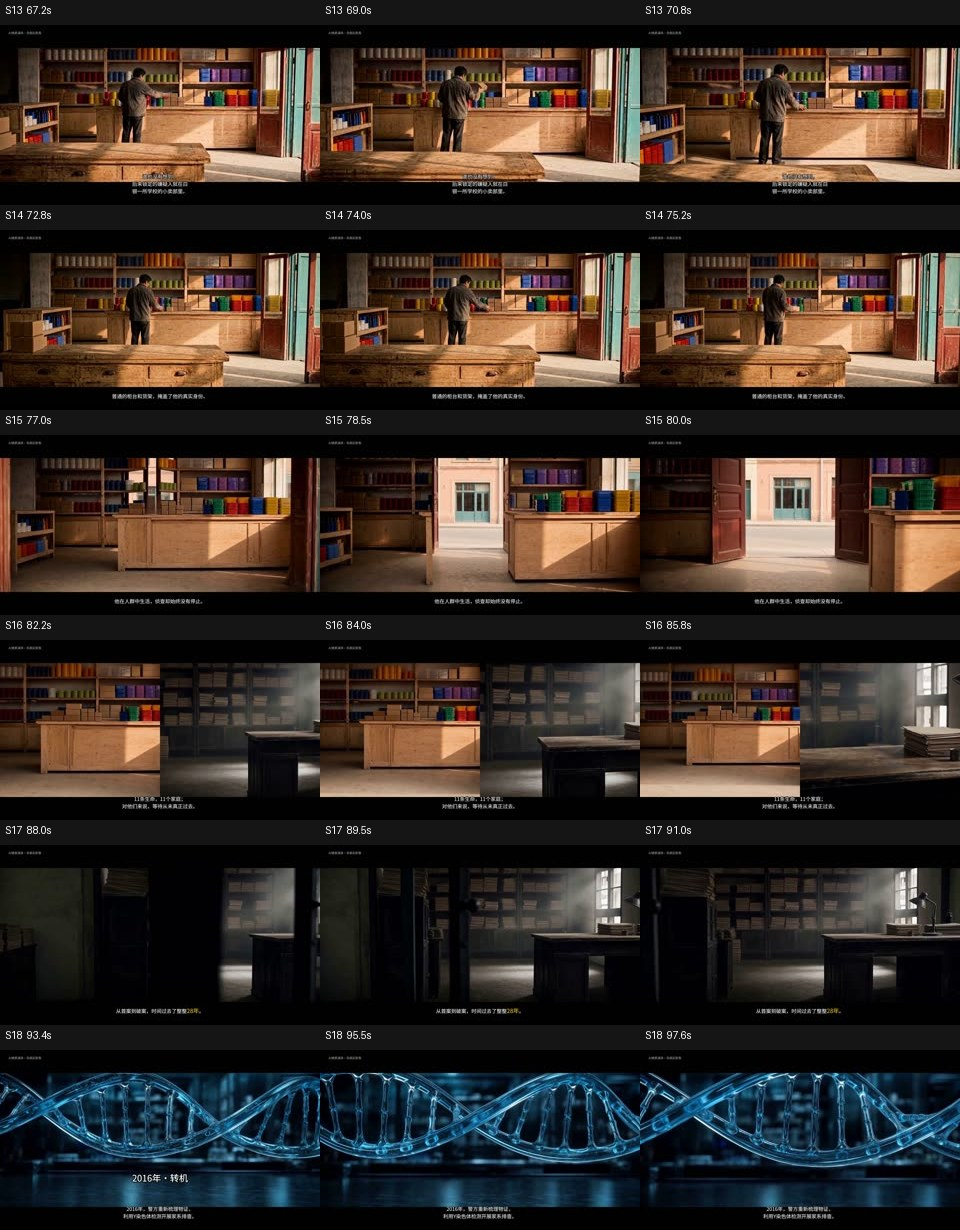
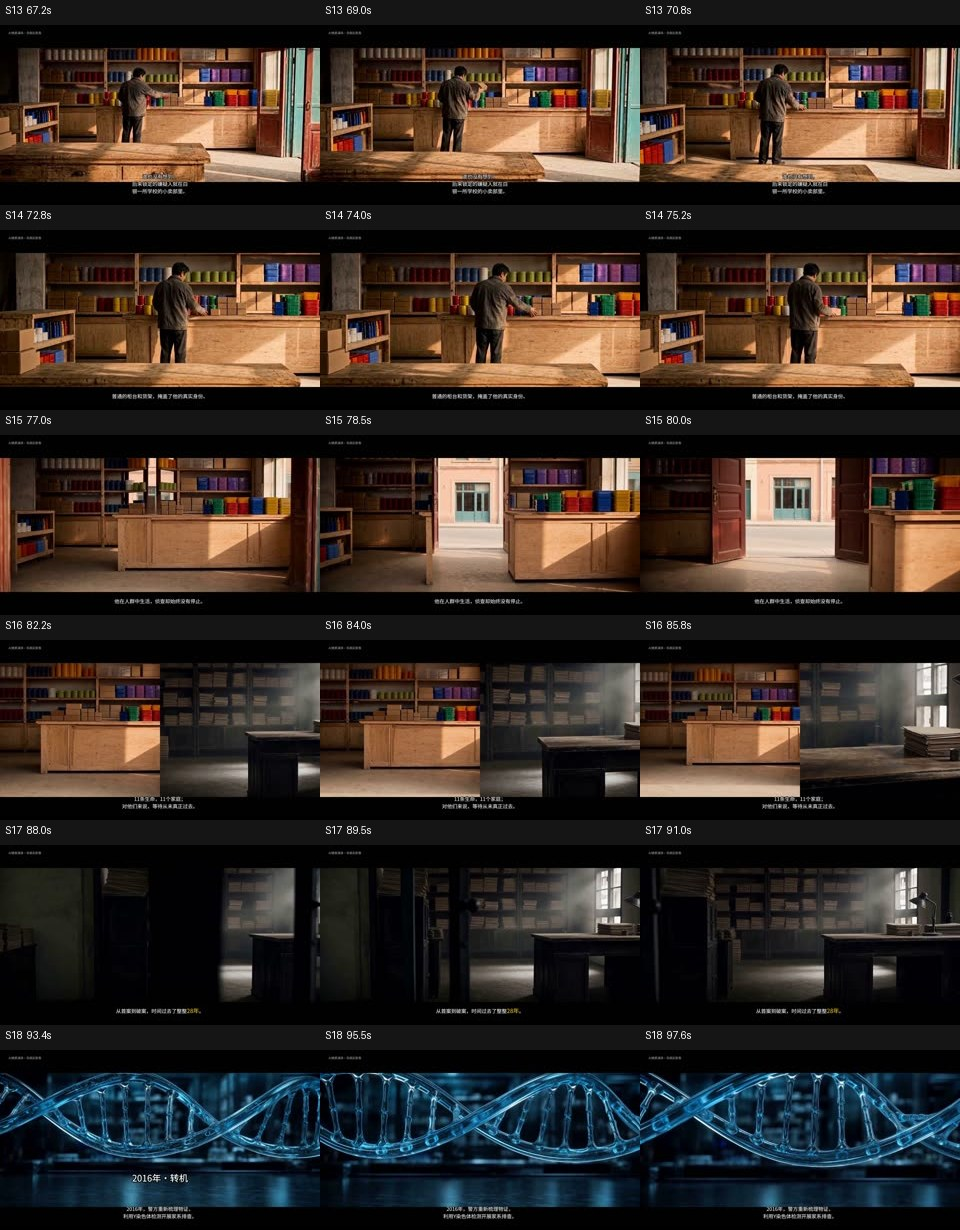
Record candidate QC and sampled visual review

Changed region(s): [[0.0, 0.1854, 1.0, 0.3398]]

diff --git a/交付/白银案_QC报告_待复核.md b/交付/白银案_QC报告_待复核.md
@@ -1,0 +1,59 @@
+# 白银连环案 · 候选片质量记录
+
+**判定：待复核，未放行。** 自动技术检查和静态抽样不能代替完整播放、逐字听检及最终事实审核。
+
+## 文件与版本
+
+- 本地审片文件：`白银案_审片初剪_待复核.mp4`、`白银案_审片初剪_字幕.srt`；小体积版本约3.54 Mbps，仅供审片。
+- 16 Mbps高码率候选：GitHub Actions 运行 [44744134187](https://github.com/32r4e2q-hub/desktop-tutorial/actions/runs/44744134187)，下载 artifact `baiyin-candidate-1080p-3`；有效至 2026-12-20 13:34 UTC。需有仓库访问权限。约366 MB的MP4未存入仓库，避免大型二进制入库。
+- 封面：`白银案_封面_待复核.jpg`，背景为生成示意画面，不是真实地点影像；运营物料见 `production/baiyin_case/发布文案.md`。
+
+## 技术检查
+
+- 高码率候选：180.000秒；1920×1080画布，24 fps，4320帧；H.264视频约16.05 Mbps，容器约16.25 Mbps；AAC 48 kHz双声道。素材源是720p普通放大，不是原生1080p或AI超分。
+- 两版均通过仓库 `verify_master.py`：29条字幕、语音能量匹配，无检出空字幕；不能证明每个字都读对。
+- 审片版实测整片响度 -14.9 LUFS、真峰值 -3.5 dBTP；147–148秒为设计黑场。高码率候选同一渲染脚本和音频源，但该数值仅为本地审片版测量。
+- 每镜在20%、50%、80%位置抽样，共90张静帧，见 `production/baiyin_case/qa/visual_samples/`。已查看这些样张，但未完整动态播放，不能判断所有动态畸变、闪烁或听觉问题。
+- 高码率候选详情：`production/baiyin_case/qa/candidate/ffprobe.json`、`verify_report.json`、`source_manifest.json`。
+
+## 片段级状态
+
+| 镜号 | 静态抽样 | 尚需检查 |
+|---|---|---|
+| S01 | 3帧已查，非动态通过 | 完整动态及听检 |
+| S02 | 3帧已查，非动态通过 | 完整动态及听检 |
+| S03 | 3帧已查，非动态通过 | 完整动态及听检 |
+| S04 | 3帧已查，非动态通过 | 完整动态及听检 |
+| S05 | 3帧已查，非动态通过 | 完整动态及听检 |
+| S06 | 3帧已查，非动态通过 | 完整动态及听检 |
+| S07 | 3帧已查，非动态通过 | 完整动态及听检 |
+| S08 | 3帧已查，非动态通过 | 完整动态及听检；复用S26，避免未经核实的红衣关联 |
+| S09 | 3帧已查，非动态通过 | 完整动态及听检 |
+| S10 | 3帧已查，非动态通过 | 完整动态及听检 |
+| S11 | 3帧已查，非动态通过 | 完整动态及听检 |
+| S12 | 3帧已查，非动态通过 | 完整动态及听检 |
+| S13 | 3帧已查，非动态通过 | 完整动态及听检 |
+| S14 | 3帧已查，非动态通过 | 完整动态及听检；裁切区分S13，画面仍相近 |
+| S15 | 3帧已查，非动态通过 | 完整动态及听检 |
+| S16 | 3帧已查，非动态通过 | 完整动态及听检；S16/S10分屏 |
+| S17 | 3帧已查，非动态通过 | 完整动态及听检 |
+| S18 | 3帧已查，非动态通过 | 完整动态及听检；DNA画面相近 |
+| S19 | 3帧已查，非动态通过 | 完整动态及听检；DNA画面相近 |
+| S20 | 3帧已查，非动态通过 | 完整动态及听检 |
+| S21 | 3帧已查，非动态通过 | 完整动态及听检 |
+| S22 | 3帧已查，非动态通过 | 完整动态及听检 |
+| S23 | 3帧已查，非动态通过 | 完整动态及听检 |
+| S24 | 3帧已查，非动态通过 | 完整动态及听检 |
+| S25 | 3帧已查，非动态通过 | 完整动态及听检；147–148秒设计黑场 |
+| S26 | 3帧已查，非动态通过 | 完整动态及听检 |
+| S27 | 3帧已查，非动态通过 | 完整动态及听检 |
+| S28 | 3帧已查，非动态通过 | 完整动态及听检 |
+| S29 | 3帧已查，非动态通过 | 完整动态及听检 |
+| S30 | 3帧已查，非动态通过 | 完整动态及听检 |
+
+## 事实、制作降级和发布前事项
+
+- AI画面均为情景演绎，不是现场或真实人物影像；片中有AI标识。参考图经 Agnes 图生视频；S13/S24及五镜另外返工。具体来源与哈希见素材清单。
+- 男声为用户选定的 `voice-01`，不是任务包指定的云希；音乐为程序合成的原创氛围音及心跳，不含第三方音乐样本。尚未作完整人耳听检及平台商业使用条款确认。
+- S08已移除红衣传闻旁白及红衣画面；DNA家系线索并不单独认定个人。事实依据与仍需核验事项见 `production/baiyin_case/事实核查与制作状态.md`；判决书原文仍未逐项核验。
+- 仍有画面复用与近似；内容虽经抽样但未逐镜动态审查，全部旁白未逐字听检。7个关键镜头最终签收、事实复核与发布合规审查尚未完成。故不能称为“完美”或发布放行版。

diff --git a/production/baiyin_case/事实核查与制作状态.md b/production/baiyin_case/事实核查与制作状态.md
@@ -79,3 +79,8 @@
 - 修复渲染器中 FFmpeg 4 不支持的 amix 参数；工作流 44741041494 合成了新版审片，30镜、180秒、1080画布、24fps、29条字幕与语音能量同步机器检查通过。抽帧墙已查。此版本声音测量为约 -18.5 LUFS、真峰值 -3.6 dBTP；一处1秒黑场位于147–148秒，为脚本设计。仍需人耳逐字听检和完整动态审查。
 - 高码率候选工作流 44741714405 完成并保存在该次 Actions artifact（保留30天），报告 `qa/candidate/`；1920×1080输出视频约16.05 Mbps、全片约16.25 Mbps，机器验证PASS。该候选先于最新修订，勿作发布版；素材仍为720p普通放大，码率提高不代表原生1080p或AI超分。
 - 为避免未经充分证实的红衣关联，新修订将S08换成中性空屋画面（复用S09并在素材清单中标明），同时重新用已选男声配音。后续渲染使用音频响度归一化（本地对旧版音轨试测约-14.9 LUFS、真峰值-3.4 dBTP，最终版本须重测）。原创程序合成环境音不含第三方音乐素材，但听感及商业发布条款仍需复核。新版待渲染与完整QC，不应称为完美成片。
+
+## 最新候选与审片记录
+- 44743561858 完成最新版审片：S08改用S26空问询室素材（非真实影像），避免与S09连续重复；S14收紧画幅，和S13区别仍有限。S08原素材与旁白已换掉，回避尚未核实的红衣传闻。
+- 44744134187 完成对应高码率候选：视频约16.05 Mbps、容器约16.25 Mbps，180秒、1920×1080、24fps；验证器PASS，Actions artifact `baiyin-candidate-1080p-3` 有效至 2026-12-20 13:34 UTC。源画面依然是720p普通放大。审片版测得 -14.9 LUFS、-3.5 dBTP，黑场147–148秒为设计；候选音轨独立响度未测。
+- 每镜3帧的90帧抽样墙已查看并留档，但完整动态审片、旁白逐字听检、判决书事实核验与发布合规尚未完成；仍为待复核候选而非发布放行成片。详见 `交付/白银案_QC报告_待复核.md`。
